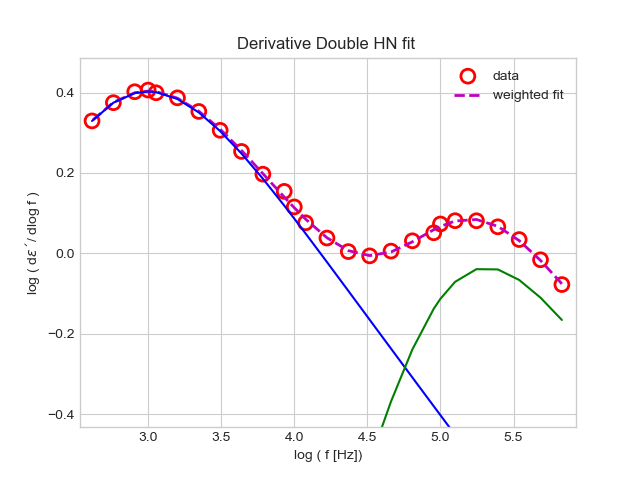
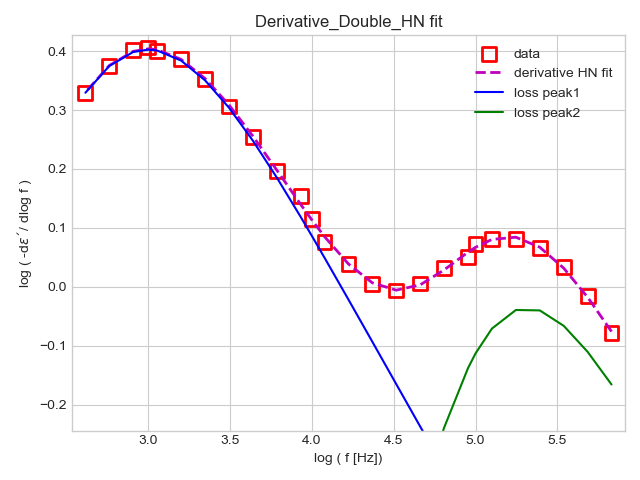
changed colors and lables for the plot

diff --git a/HavNegpy/hn.py b/HavNegpy/hn.py
@@ -98,7 +98,7 @@ class HN():
         plt.figure(1)
         plt.style.use("seaborn-whitegrid")
 
-        plt.scatter(x, y, marker='s', color='b',
+        plt.scatter(x, y, marker='s', color='r',
                     facecolors='none', s=100, linewidth=2)
         plt.ylabel('log $\epsilon$"')
         plt.xlabel('log f')
@@ -617,8 +617,10 @@ class HN():
                 'freq'], loaded_par['deps'], loaded_par['cond'], loaded_par['n']
             hn_sub = self.hn_flank(x, *hn_sub_par)
             plt.figure()
-            plt.scatter(x, y,label='data')
+            plt.scatter(x,y,marker='s',color='r',facecolors='none',label='data',s=100,linewidth=2)
             plt.plot(x, hn_sub, 'b',label='initial guess')
+            plt.xlabel('log ( f [Hz])')
+            plt.ylabel('log $\epsilon$"')
             plt.legend()
             
         return init_fit_par   
@@ -663,8 +665,10 @@ class HN():
             hn_sub = self.hn(x, *hn_sub_par)
 
             plt.figure()
-            plt.scatter(x, y,label='data')
+            plt.scatter(x,y,marker='s',color='r',facecolors='none',label='data',s=100,linewidth=2)
             plt.plot(x, hn_sub, 'b',label='initial guess')
+            plt.xlabel('log ( f [Hz])')
+            plt.ylabel('log $\epsilon$"')
             plt.legend()
         return init_fit_par    
 
@@ -708,9 +712,11 @@ class HN():
             cond_sub = self.cond_s(x, *cond_sub_par)
 
             plt.figure()
-            plt.scatter(x, y,label='data')
+            plt.scatter(x,y,marker='s',color='r',facecolors='none',label='data',s=100,linewidth=2)
             plt.plot(x, hn_sub, 'b',label='loss peak')
             plt.plot(x, cond_sub, 'r',label='conductivity')
+            plt.xlabel('log ( f [Hz])')
+            plt.ylabel('log $\epsilon$"')
             plt.legend()
         return init_fit_par
     
@@ -756,11 +762,14 @@ class HN():
             hn_sub2 = self.hn(x, *hn_sub_par2)
 
             plt.figure()
-            plt.scatter(x, y,label='data')
+            plt.scatter(x,y,marker='s',color='r',facecolors='none',label='data',s=100,linewidth=2)
             plt.plot(x, hn_sub1, 'b',label='initial guess peak1')
             plt.plot(x, hn_sub2, 'g',label='initial guess peak2')
+            plt.xlabel('log ( f [Hz])')
+            plt.ylabel('log $\epsilon$"')
             plt.legend()
         return init_fit_par
+    
     def initial_view_double_hn_cond(self, x, y):
         """
         plots the double hn function with conductivity based on the initial parameters given 
@@ -802,10 +811,12 @@ class HN():
             cond_sub = self.cond_s(x, *cond_sub_par)
 
             plt.figure()
-            plt.scatter(x, y,label='data')
+            plt.scatter(x,y,marker='s',color='r',facecolors='none',label='data',s=100,linewidth=2)
             plt.plot(x, hn_sub1, 'b',label='initial guess peak1')
             plt.plot(x, hn_sub2, 'g',label='initial guess peak2')
             plt.plot(x, cond_sub, 'r',label='conductivity')
+            plt.xlabel('log ( f [Hz])')
+            plt.ylabel('log $\epsilon$"')
             plt.legend()
         return init_fit_par     
 
@@ -863,9 +874,9 @@ class HN():
                popt1, pcov2 = curve_fit(self.hn, x1, y1, hn_p0, bounds =((0, 0, 1e-7, 0), (1, 1, 1e7, np.inf)),absolute_sigma=True)
                yfit2 = self.hn(x1, *popt1)
 
-               plt.scatter(x1, y1, marker='o', color='r',
+               plt.scatter(x1, y1, marker='s', color='r',
                            facecolors='none', label='data', s=100, linewidth=2)
-               plt.plot(x1, yfit2, 'm--', label='weighted fit', linewidth=2)
+               plt.plot(x1, yfit2, 'm--', label='HN function fit', linewidth=2)
                plt.xlabel('log ( f [Hz])')
                plt.ylabel('log $\epsilon$"')
                plt.legend()
@@ -908,9 +919,9 @@ class HN():
                popt2, pcov2 = curve_fit(self.hn_cond, x1, y1, p0, bounds =((0, 0, 1e-7, 0, 0, 0), (1, 1, 1e7,np.inf,np.inf,1)),absolute_sigma=True)
                yfit3 = self.hn_cond(x1, *popt2)
 
-               plt.scatter(x1, y1, marker='o', color='r',
+               plt.scatter(x1, y1, marker='s', color='r',
                            facecolors='none', label='data', s=100, linewidth=2)
-               plt.plot(x1, yfit3, 'm--', label='weighted fit', linewidth=2)
+               plt.plot(x1, yfit3, 'm--', label='HN with cond fit', linewidth=2)
                plt.xlabel('log ( f [Hz])')
                plt.ylabel('log $\epsilon$"')
                
@@ -959,9 +970,9 @@ class HN():
                popt2, pcov2 = curve_fit(self.hn_flank, x1, y1, p0, bounds =((0, 0, 0, 0, 0, 0), (1, 1, 1e7,np.inf,np.inf,1)), absolute_sigma=True)
                yfit3 = self.hn_flank(x1, *popt2)
 
-               plt.scatter(x1, y1, marker='o', color='r',
+               plt.scatter(x1, y1, marker='s', color='r',
                            facecolors='none', label='data', s=100, linewidth=2)
-               plt.plot(x1, yfit3, 'm--', label='weighted fit', linewidth=2)
+               plt.plot(x1, yfit3, 'm--', label='HN with flank fit', linewidth=2)
                plt.xlabel('log ( f [Hz])')
                plt.ylabel('log $\epsilon$"')
                
@@ -1017,9 +1028,9 @@ class HN():
                 print(p0)
                 popt2, pcov2 = curve_fit(self.double_hn, x1, y1, p0, bounds =((0, 0, 1e-7, 0, 0, 0, 1e-7, 0), (1,1,1e7,np.inf,1,1,1e7,np.inf)),absolute_sigma=True)
                 yfit4 = self.double_hn(x1, *popt2)
-                plt.scatter(x1, y1, marker='o', color='r',
+                plt.scatter(x1, y1, marker='s', color='r',
                             facecolors='none', label='data', s=100, linewidth=2)
-                plt.plot(x1, yfit4, 'm--', label='weighted fit', linewidth=2)
+                plt.plot(x1, yfit4, 'm--', label='double HN fit', linewidth=2)
                 plt.xlabel('log ( f [Hz])')
                 plt.ylabel('log $\epsilon$"')
                 
@@ -1069,9 +1080,9 @@ class HN():
                 print(p0)
                 popt2, pcov2 = curve_fit(self.double_hn_cond, x1, y1, p0, bounds =((0, 0, 1e-7, 0, 0, 0, 1e-7, 0, 0,0),(1,1,1e7,np.inf,1,1,1e7,np.inf,np.inf,1)),absolute_sigma=True)
                 yfit4 = self.double_hn_cond(x1, *popt2)
-                plt.scatter(x1, y1, marker='o', color='r',
+                plt.scatter(x1, y1, marker='s', color='r',
                             facecolors='none', label='data', s=100, linewidth=2)
-                plt.plot(x1, yfit4, 'm--', label='weighted fit', linewidth=2)
+                plt.plot(x1, yfit4, 'm--', label='double HN fit', linewidth=2)
                 plt.xlabel('log ( f [Hz])')
                 plt.ylabel('log $\epsilon$"')
                 

diff --git a/HavNegpy/hn_deri.py b/HavNegpy/hn_deri.py
@@ -85,8 +85,8 @@ class HN_derivative:
        plt.figure(1)
        plt.style.use("seaborn-whitegrid")
 
-       plt.scatter(x,y,marker='s',color='b',facecolors='none', s=100,linewidth=2)
-       plt.ylabel('log ( d$\epsilon´$/ dlog f )')
+       plt.scatter(x,y,marker='s',color='r',facecolors='none', s=100,linewidth=2)
+       plt.ylabel('log ( -d$\epsilon´$/ dlog f )')
        plt.xlabel('log f')
        #plt.legend()
        plt.style.use("seaborn-whitegrid")
@@ -512,8 +512,10 @@ class HN_derivative:
             hn_sub = self.deri_hn(x,*hn_sub_par)
           
             plt.figure()
-            plt.scatter(x,y,label='data')
+            plt.scatter(x,y,marker='s',color='r',facecolors='none',label='data',s=100,linewidth=2)
             plt.plot(x,hn_sub,'b',label='initial guess')
+            plt.xlabel('log ( f [Hz])')
+            plt.ylabel('log ( -d$\epsilon´$/ dlog f )')
             plt.legend()
        
         return init_fit_par
@@ -555,9 +557,11 @@ class HN_derivative:
             ep_sub = self.ep_s(x,*ep_sub_par)
           
             plt.figure()
-            plt.scatter(x,y,label='data')
+            plt.scatter(x,y,marker='s',color='r',facecolors='none',label='data',s=100,linewidth=2)
             plt.plot(x,hn_sub,'b',label='initial guess - peak')
             plt.plot(x,ep_sub,'r',label='initial guess - electrode polarization')
+            plt.xlabel('log ( f [Hz])')
+            plt.ylabel('log ( -d$\epsilon´$/ dlog f )')
             plt.legend()
         return init_fit_par
       
@@ -605,9 +609,11 @@ class HN_derivative:
             
           
             plt.figure()
-            plt.scatter(x,y)
+            plt.scatter(x,y,marker='s',color='r',facecolors='none',label='data',s=100,linewidth=2)
             plt.plot(x,hn_sub1,'b',label='initial guess - peak1')
             plt.plot(x,hn_sub2,'g',label='initial guess - peak2')
+            plt.xlabel('log ( f [Hz])')
+            plt.ylabel('log ( -d$\epsilon´$/ dlog f )')
             plt.legend()
 
         return init_fit_par
@@ -680,10 +686,10 @@ class HN_derivative:
                popt1, pcov2 = curve_fit(self.deri_hn, x1, y1, hn_p0,bounds =((0,0,1e-7,0),(1,1,1e7,np.inf)),absolute_sigma=True)
                yfit2 = self.deri_hn(x1,*popt1)
                
-               plt.scatter(x1,y1,marker='o',color='r',facecolors='none',label='data',s=100,linewidth=2)
-               plt.plot(x1,yfit2,'m--',label='weighted fit', linewidth=2)
+               plt.scatter(x1,y1,marker='s',color='r',facecolors='none',label='data',s=100,linewidth=2)
+               plt.plot(x1,yfit2,'m--',label='derivative HN fit', linewidth=2)
                plt.xlabel('log ( f [Hz])')
-               plt.ylabel('log ( d$\epsilon´$/ dlog f )')
+               plt.ylabel('log ( -d$\epsilon´$/ dlog f )')
                plt.legend()
              
                b,g,fm,deps = popt1[0:4]
@@ -721,19 +727,19 @@ class HN_derivative:
                popt2, pcov2 = curve_fit(self.deri_hn_ep, x1, y1, p0, bounds =((0,0,1e-7,0,0,0),(1,1,1e7,np.inf,np.inf,1)),absolute_sigma=True)
                yfit3 = self.deri_hn_ep(x1,*popt2)
                
-               plt.scatter(x1,y1,marker='o',color='r',facecolors='none',label='data',s=100,linewidth=2)
-               plt.plot(x1,yfit3,'m--',label='weighted fit', linewidth=2)
+               plt.scatter(x1,y1,marker='s',color='r',facecolors='none',label='data',s=100,linewidth=2)
+               plt.plot(x1,yfit3,'m--',label='derivative HN with EP fit', linewidth=2)
                plt.xlabel('log ( f [Hz])')
-               plt.ylabel('log ( d$\epsilon´$/ dlog f )')
-               plt.legend()
+               plt.ylabel('log ( -d$\epsilon´$/ dlog f )')
+               
                
                hn_sub_par = popt2[0],popt2[1],popt2[2],popt2[3]
                ep_sub_par = popt2[4], popt2[5] 
                hn_sub = self.deri_hn(x1,*hn_sub_par)
                ep_sub = self.ep_s(x1,*ep_sub_par)
-               plt.plot(x1,hn_sub,'b')
-               plt.plot(x1,ep_sub,'g')
-              
+               plt.plot(x1,hn_sub,'b',label='loss peak')
+               plt.plot(x1,ep_sub,'g',label='Electrode Polarization')
+               plt.legend()
                
                print(*popt2)
                b,g,fm,deps,ep,s = popt2[:]
@@ -768,18 +774,19 @@ class HN_derivative:
                 print(p0)
                 popt2, pcov2 = curve_fit(self.deri_double_hn, x1, y1, p0, bounds =((0,0,1e-7,0,0,0,1e-7,0),(1,1,1e7,np.inf,1,1,1e7,np.inf)),absolute_sigma=True)
                 yfit4 = self.deri_double_hn(x1,*popt2)
-                plt.scatter(x1,y1,marker='o',color='r',facecolors='none',label='data',s=100,linewidth=2)
-                plt.plot(x1,yfit4,'m--',label='weighted fit', linewidth=2)
+                plt.scatter(x1,y1,marker='s',color='r',facecolors='none',label='data',s=100,linewidth=2)
+                plt.plot(x1,yfit4,'m--',label='derivative HN fit', linewidth=2)
                 plt.xlabel('log ( f [Hz])')
-                plt.ylabel('log ( d$\epsilon´$/ dlog f )')
-                plt.legend()
+                plt.ylabel('log ( -d$\epsilon´$/ dlog f )')
+                
                 
                 hn_sub_par1 = popt2[0], popt2[1],popt2[2],popt2[3]
                 hn_sub_par2 = popt2[4], popt2[5],popt2[6],popt2[7]
                 hn_sub1 = self.deri_hn(x1,*hn_sub_par1)
                 hn_sub2 = self.deri_hn(x1,*hn_sub_par2)
-                plt.plot(x1,hn_sub1,'b')
-                plt.plot(x1,hn_sub2,'g')
+                plt.plot(x1,hn_sub1,'b',label='loss peak1')
+                plt.plot(x1,hn_sub2,'g',label='loss peak2')
+                plt.legend()
                 
                 b1,g1,fm1,deps1,b2,g2,fm2,deps2 = popt2[:]
                 ep, s = 0, 1

diff --git a/HavNegpy/conductivity.py b/HavNegpy/conductivity.py
@@ -303,7 +303,7 @@ class Conductivity:
                 yfit= cond(x1,*popt1)
                 
                 plt.scatter(x1,y1,marker='s',color='b',facecolors='none',label='data',s=100,linewidth=2)
-                plt.plot(x1,yfit,'m--', label='fit',linewidth=2)
+                plt.plot(x1,yfit,'r--', label='Jonscher fit',linewidth=2)
                 plt.xlabel('log ( f [Hz])')
                 plt.ylabel('log ( $\sigma´$)')
                 plt.legend()
@@ -344,7 +344,7 @@ class Conductivity:
                   yfit= cond(x1,*popt1)
                   
                   plt.scatter(x1,y1,marker='s',color='b',facecolors='none',label='data',s=100,linewidth=2)
-                  plt.plot(x1,yfit,'m--', label='fit',linewidth=2)
+                  plt.plot(x1,yfit,'r--', label='RBM fit',linewidth=2)
                   plt.xlabel('log ( f [Hz])')
                   plt.ylabel('log ( $\sigma´$)')
                   plt.legend()
